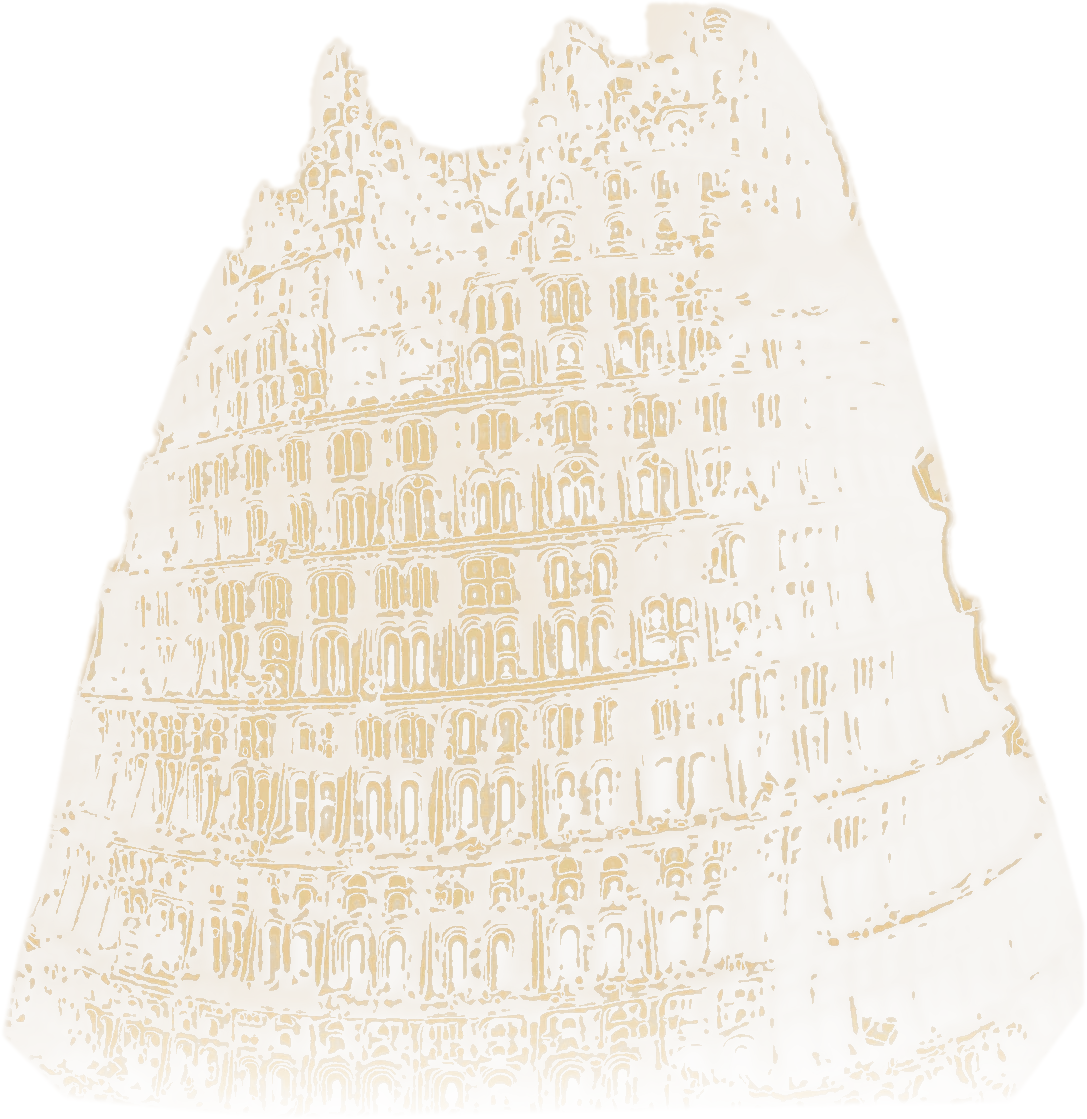
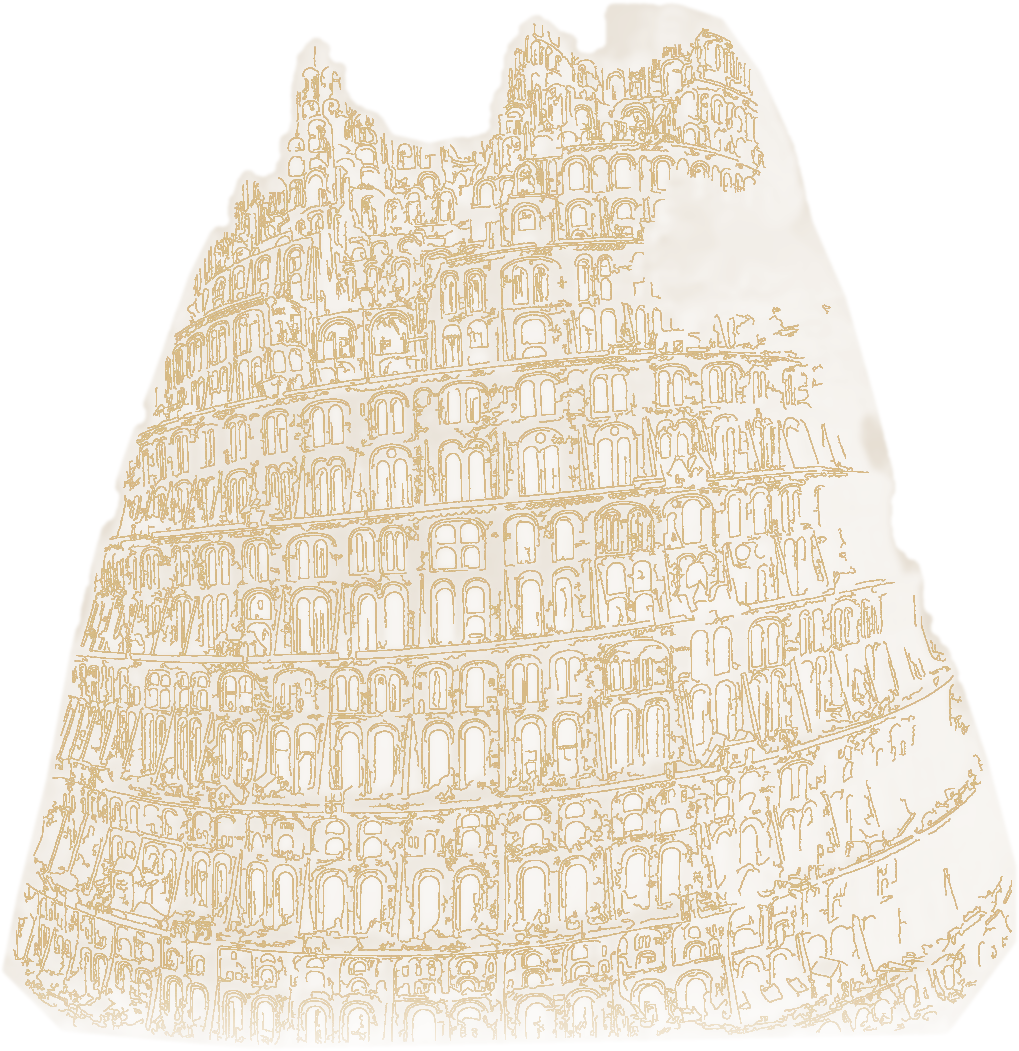
Tower v3: crisp Canny line-art engraving from full-res painting
Claude-Session: https://claude.ai/code/session_01Leueyi132yxe9phAvRirnF

diff --git a/index.html b/index.html
@@ -1052,7 +1052,7 @@ setTimeout(function(){els.forEach(function(e){e.classList.add('in')})},7000);
 (function(){
 var img=document.getElementById('babel');if(!img)return;
 if(window.matchMedia&&matchMedia('(prefers-reduced-motion:reduce)').matches)return;
-var W=560,H=577,cv,ctx,src,out,th,cs,cx,hw,kk,rot=0,y0=0,dirty=true,last=0,wide=matchMedia('(min-width:900px)');
+var W=640,H=660,cv,ctx,src,out,th,cs,cx,hw,kk,rot=0,y0=0,dirty=true,last=0,wide=matchMedia('(min-width:900px)');
 function sm(a,r){var b=[],n,s,k,j,q,L=a.length;for(j=0;j<L;j++){s=0;n=0;for(k=-r;k<=r;k++){q=j+k;if(q>=0&&q<L){s+=a[q];n++}}b[j]=s/n}return b}
 function setup(){
  var oc=document.createElement('canvas');oc.width=W;oc.height=H;

diff --git a/source/home_src.html b/source/home_src.html
@@ -1024,7 +1024,7 @@ setTimeout(function(){els.forEach(function(e){e.classList.add('in')})},7000);
 (function(){
 var img=document.getElementById('babel');if(!img)return;
 if(window.matchMedia&&matchMedia('(prefers-reduced-motion:reduce)').matches)return;
-var W=560,H=577,cv,ctx,src,out,th,cs,cx,hw,kk,rot=0,y0=0,dirty=true,last=0,wide=matchMedia('(min-width:900px)');
+var W=640,H=660,cv,ctx,src,out,th,cs,cx,hw,kk,rot=0,y0=0,dirty=true,last=0,wide=matchMedia('(min-width:900px)');
 function sm(a,r){var b=[],n,s,k,j,q,L=a.length;for(j=0;j<L;j++){s=0;n=0;for(k=-r;k<=r;k++){q=j+k;if(q>=0&&q<L){s+=a[q];n++}}b[j]=s/n}return b}
 function setup(){
  var oc=document.createElement('canvas');oc.width=W;oc.height=H;

diff --git a/source/babel.js b/source/babel.js
@@ -2,7 +2,7 @@
 (function(){
 var img=document.getElementById('babel');if(!img)return;
 if(window.matchMedia&&matchMedia('(prefers-reduced-motion:reduce)').matches)return;
-var W=560,H=577,cv,ctx,src,out,th,cs,cx,hw,kk,rot=0,y0=0,dirty=true,last=0,wide=matchMedia('(min-width:900px)');
+var W=640,H=660,cv,ctx,src,out,th,cs,cx,hw,kk,rot=0,y0=0,dirty=true,last=0,wide=matchMedia('(min-width:900px)');
 function sm(a,r){var b=[],n,s,k,j,q,L=a.length;for(j=0;j<L;j++){s=0;n=0;for(k=-r;k<=r;k++){q=j+k;if(q>=0&&q<L){s+=a[q];n++}}b[j]=s/n}return b}
 function setup(){
  var oc=document.createElement('canvas');oc.width=W;oc.height=H;
